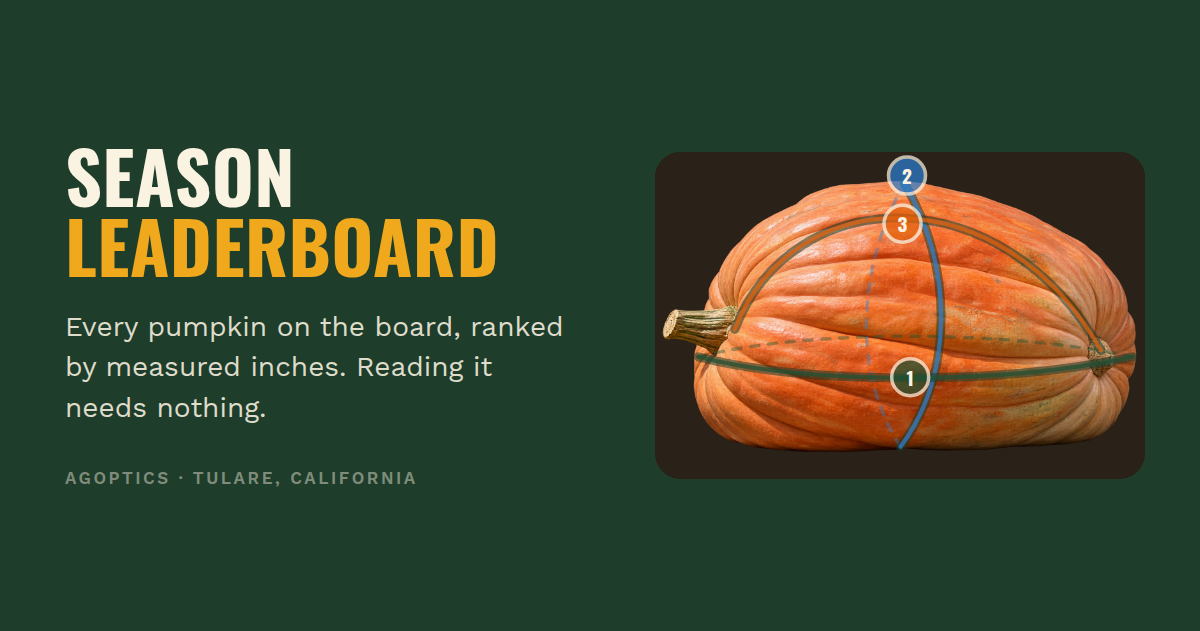
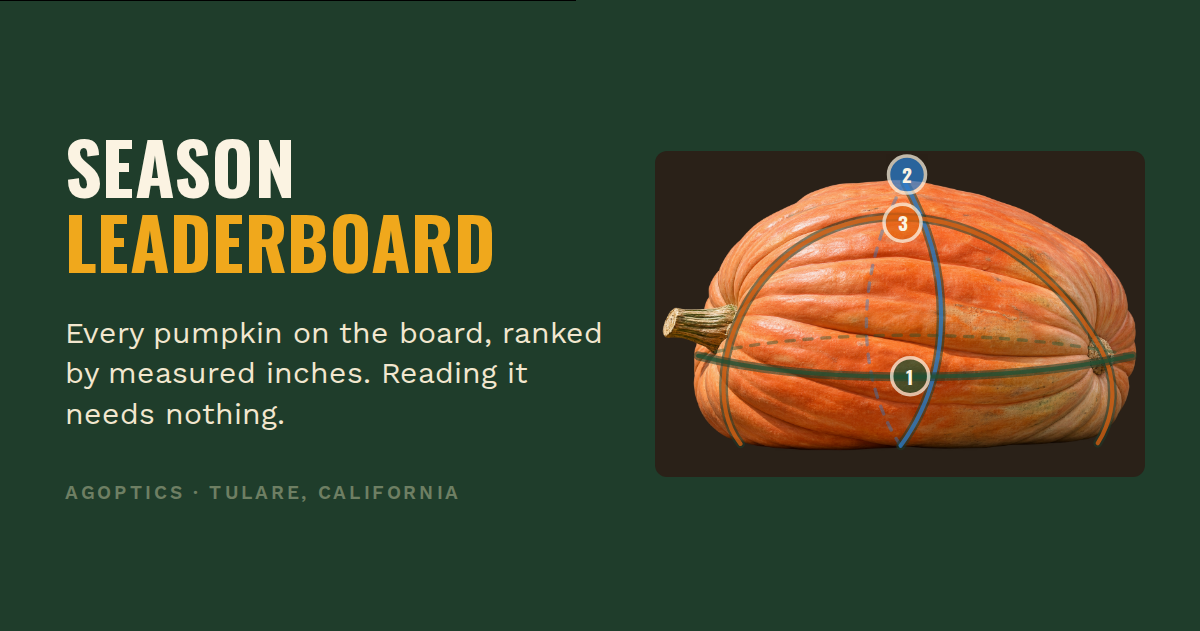
Run guide 3 ground to ground, as the tape actually goes
The end-to-end guide stopped at the stem and the blossom scar, teaching
a tape a foot short on each end: the GPC measurement ends on the ground
on both sides, same as side to side. The guide now drops from the ground
past the stem, crests the crown, and comes down past the scar to the
ground — each end drop meets the crown arc tangent-to-tangent so it
reads as one unbroken tape, sitting a little inside the silhouette like
the rest of the run.

The hint made the same mistake in words ("from the stem end to the
blossom end") and now reads ground to ground, parallel to guide 2's.
The title keeps the direction; that part was right.

The six link preview cards are re-screenshotted from the corrected
diagram through the same throwaway render sheet as last time, deleted
again before committing — the build's route list confirms no /og-tmp
ships. Facebook holds the old card until the Sharing Debugger re-scrapes
after this deploys.

345 tests and the build pass.

Claude-Session: https://claude.ai/code/session_01A9XisrSrjxtGmbWaS95iEw

diff --git a/src/components/PumpkinDiagram.tsx b/src/components/PumpkinDiagram.tsx
@@ -77,8 +77,15 @@ const GUIDES: {
   {
     key: "ee",
     label: "3",
-    // Stem end, over the crown, blossom end. Lies on the fruit's surface.
-    front: "M 250 556 C 430 90, 1090 70, 1398 622",
+    // Ground, up past the stem, over the crown, down past the blossom scar,
+    // ground. The GPC tape does not stop at the stem and the scar — both
+    // over-the-top measurements end on the ground, and a guide that stopped at
+    // the stem taught a tape a foot short on each end. Three cubics: the end
+    // drops meet the crown arc tangent-to-tangent so the tape reads as one
+    // unbroken run, and they sit a little inside the silhouette, same as the
+    // crown arc, so the whole length stays on the near side of the fruit.
+    front:
+      "M 268 918 C 190 820, 210 658, 250 556 C 430 90, 1090 70, 1398 622 C 1452 718, 1442 830, 1388 916",
     chip: [776, 225],
   },
   {

diff --git a/src/app/page.tsx b/src/app/page.tsx
@@ -90,7 +90,9 @@ const MEASUREMENTS: {
     key: "ee",
     step: "3",
     title: "Stem end to blossom end",
-    hint: "Over the top from the stem end to the blossom end.",
+    // The title names the direction; the tape itself ends on the ground, not
+    // at the stem and the scar — stopping there reads a foot short per end.
+    hint: "Over the top, ground to ground, along the fruit.",
   },
 ];
 
